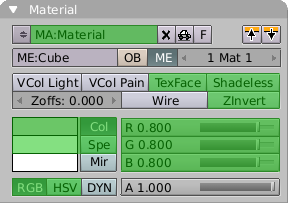
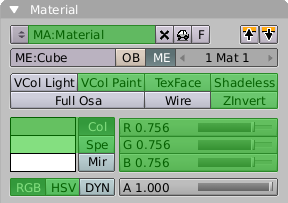
Vertex colour documentation update. Adapt to Ogre's version number.

diff --git a/Tools/BlenderExport/Docs/index.html b/Tools/BlenderExport/Docs/index.html
@@ -12,7 +12,7 @@
 <H1>Blender to Ogre Exporter</H1>
 Blender is an open source 3D content creation suite for modeling, animation, rendering and video post production. The Blender to Ogre Exporter is a python script to run directly within Blender. Currently it supports the export of 
 <UL>
-<LI>mesh objects with multiple materials, uv textures and blend modes,</LI>
+<LI>mesh objects with vertex colours, multiple materials, uv textures and blend modes,</LI>
 <LI>armature keyframe animations.</LI>
 </UL>
 <H2>Installation</H2>
@@ -89,7 +89,7 @@ The script loads and saves its options to a text buffer "ogreexport.cfg" inside 
 </P>
 <H2>Specifics</H2>
 <H3>Mesh</H3>
-<P>The script supports sticky and per face vertex uv coordinates, smoothed and non-smoothed normals. Each rectangle face is automatically converted into two triangle faces in the exported mesh.</P>
+<P>The script supports sticky and per face vertex uv coordinates, smoothed and non-smoothed normals, vertex colours. Each rectangle face is automatically converted into two triangle faces in the exported mesh.</P>
 <P>The script does not support subdivision surface (SubSurf) options. To export a SubSurf object, you have to convert it into a Mesh object, "Object -> Convert Object Type... -> Mesh (keep original)".</P>
 <P> The script does not support double sided faces (Double Sided/Two Sided). To make a face double sided, select the face in the "Edit Mode", duplicate it ("Mesh -> Duplicate", RMB) and flip the normals ("Mesh -> Normals -> Flip").</P>
 <H3>Material</H3>
@@ -118,6 +118,10 @@ In contrast to Ogre, Blender treats material, uv texture and blend mode separate
 <TR>
 <TD>Emit*Col</TD>
 <TD>emissive R G B</TD>
+</TR>
+<TR>
+<TD>VCol Paint</TD>
+<TD>vertex colours</TD>
 </TR>
 <TR>
 <TD>TexFace</TD>

diff --git a/Tools/BlenderExport/ogreexport.py b/Tools/BlenderExport/ogreexport.py
@@ -7,7 +7,7 @@ Group: 'Export'
 Tooltip: 'Exports selected meshs with armature animations to Ogre3D'
 """
 
-# Blender to Ogre Mesh and Skeleton Exporter v0.14.2
+# Blender to Ogre Mesh and Skeleton Exporter v0.15.0
 # url: http://www.ogre3d.org
 
 # Ogre exporter written by Jens Hoffmann and Michael Reimpell
@@ -109,7 +109,7 @@ Tooltip: 'Exports selected meshs with armature animations to Ogre3D'
 #   0.14.2: * Fri Aug 13 2004 Michael Reimpell <M.Reimpell@tu-bs.de>
 #          - location key frame values fixed
 #          - fixed redraw if action is changed
-#   0.14.3: * Michael Reimpell <M.Reimpell@tu-bs.de>
+#   0.15.0: * Michael Reimpell <M.Reimpell@tu-bs.de>
 #          - scalar product range correction in calc_rootaxis
 #          - made ArmatureAction.createArmatureActionDict a static method
 #          - renamed private methods to begin with an underscore
@@ -2849,7 +2849,7 @@ def frameDecorator(x, y, width):
 	glRectf(x,y-36,x+width,y-16)
 	glColor3f(1.0,1.0,0)
 	glRasterPos2i(x+85, y-30)
-	Draw.Text("OGRE Exporter 0.14.2", "normal")
+	Draw.Text("OGRE Exporter 0.15.0", "normal")
 
 	# logo
 	glRasterPos2i(x+1, y-48)	
